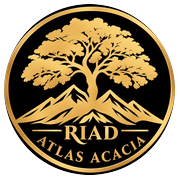
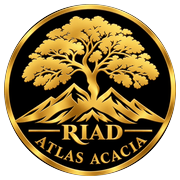
feat(branding): integrate ultra-refined high-resolution Riad Atlas Acacia golden medallion and rebuild all assets

diff --git a/client/index.html b/client/index.html
@@ -16,12 +16,12 @@
     <meta name="apple-mobile-web-app-title" content="Riad Acacia" />
     
     <!-- Favicon & Touch Icons (Riad Atlas Acacia Logo) -->
-    <link rel="icon" type="image/x-icon" href="/favicon.ico?v=5" />
-    <link rel="icon" type="image/png" sizes="32x32" href="/favicon-32x32.png?v=5" />
-    <link rel="icon" type="image/png" sizes="16x16" href="/favicon-16x16.png?v=5" />
-    <link rel="icon" type="image/png" sizes="64x64" href="/favicon.png?v=5" />
-    <link rel="apple-touch-icon" sizes="180x180" href="/apple-touch-icon.png?v=5" />
-    <link rel="manifest" href="/manifest.json?v=5" />
+    <link rel="icon" type="image/x-icon" href="/favicon.ico?v=6" />
+    <link rel="icon" type="image/png" sizes="32x32" href="/favicon-32x32.png?v=6" />
+    <link rel="icon" type="image/png" sizes="16x16" href="/favicon-16x16.png?v=6" />
+    <link rel="icon" type="image/png" sizes="64x64" href="/favicon.png?v=6" />
+    <link rel="apple-touch-icon" sizes="180x180" href="/apple-touch-icon.png?v=6" />
+    <link rel="manifest" href="/manifest.json?v=6" />
 
     <!-- Open Graph / WhatsApp Preview -->
     <meta property="og:type" content="website" />

diff --git a/client/src/main.tsx b/client/src/main.tsx
@@ -11,7 +11,7 @@ try {
     document.head.appendChild(favicon);
   }
   favicon.type = "image/png";
-  favicon.href = `/favicon-32x32.png?v=5`;
+  favicon.href = `/favicon-32x32.png?v=6`;
 } catch {
   // Ignore in non-browser env
 }

diff --git a/client/public/sw.js b/client/public/sw.js
@@ -1,5 +1,5 @@
 // Service Worker for Riad Atlas Acacia Guest Guide
-const CACHE_NAME = 'riad-acacia-v5';
+const CACHE_NAME = 'riad-acacia-v6';
 const STATIC_ASSETS = [
   '/',
   '/index.html',

diff --git a/scripts/generate-favicons.py b/scripts/generate-favicons.py
@@ -1,44 +1,37 @@
 import base64
 import os
-import shutil
 from PIL import Image, ImageDraw
 
 base_dir = r"d:\Workspace\MosaicOS\01_SYSTEM\AgenticOS project manager\projects\degitize-riad-acacia"
-user_img_path = r"C:/Users/mehdi/.gemini/antigravity/brain/c1475805-ff09-48db-b36f-e8cc56d5edea/.user_uploaded/media_1795791964787_e716268d.jpg"
+user_img_path = r"C:/Users/mehdi/.gemini/antigravity/brain/c1475805-ff09-48db-b36f-e8cc56d5edea/.user_uploaded/media_1795796031409_a72b1f8f.jpg"
 logo_dest = os.path.join(base_dir, "client", "public", "riad-atlas-acacia", "logo.png")
 pub_dir = os.path.join(base_dir, "client", "public")
 
-# 1. Load user upscaled image
+# 1. Load newly uploaded refined logo
 raw_img = Image.open(user_img_path).convert("RGBA")
 
-# Center & Radius of the golden circular medallion
-cx, cy = 502, 458
-radius = 434
+# Crop to the outer golden ring bounds
+cropped = raw_img.crop((33, 28, 982, 943))
 
-# Crop square around the circular medallion
-box = (cx - radius, cy - radius, cx + radius, cy + radius)
-cropped = raw_img.crop(box)
+# Resize to 512x512 with 4px margin (504x504 medallion on 512x512 canvas)
+medallion = cropped.resize((504, 504), Image.LANCZOS)
 
-# Super-sampled antialiased circular mask for silky smooth outer edge
-scale = 4
-mask_size = (cropped.width * scale, cropped.height * scale)
-mask = Image.new("L", mask_size, 0)
-draw = ImageDraw.Draw(mask)
-draw.ellipse((0, 0, mask_size[0], mask_size[1]), fill=255)
-mask = mask.resize(cropped.size, Image.LANCZOS)
-cropped.putalpha(mask)
+# 4x supersampled circular mask for clean antialiasing
+mask_hi = Image.new("L", (2016, 2016), 0)
+draw = ImageDraw.Draw(mask_hi)
+draw.ellipse((0, 0, 2016, 2016), fill=255)
+mask = mask_hi.resize((504, 504), Image.LANCZOS)
+medallion.putalpha(mask)
 
-# Save master 512x512 logo.png
 logo_512 = Image.new("RGBA", (512, 512), (0, 0, 0, 0))
-resized_504 = cropped.resize((504, 504), Image.LANCZOS)
-logo_512.paste(resized_504, (4, 4), resized_504)
+logo_512.paste(medallion, (4, 4), medallion)
 logo_512.save(logo_dest, "PNG")
-print("Saved master logo.png to:", logo_dest)
+print("Saved refined master logo.png to:", logo_dest)
 
 # Helper function to generate square icons
 def make_icon(size, padding_ratio=1.0):
     target_dim = max(1, int(size * padding_ratio))
-    resized = cropped.resize((target_dim, target_dim), Image.LANCZOS)
+    resized = medallion.resize((target_dim, target_dim), Image.LANCZOS)
     canvas = Image.new("RGBA", (size, size), (0, 0, 0, 0))
     paste_pos = ((size - target_dim) // 2, (size - target_dim) // 2)
     canvas.paste(resized, paste_pos, resized)
@@ -58,11 +51,11 @@ ico_48.save(
 make_icon(16).save(os.path.join(pub_dir, "favicon-16x16.png"), "PNG")
 make_icon(32).save(os.path.join(pub_dir, "favicon-32x32.png"), "PNG")
 make_icon(64).save(os.path.join(pub_dir, "favicon.png"), "PNG")
-make_icon(180, 0.95).save(os.path.join(pub_dir, "apple-touch-icon.png"), "PNG")
-make_icon(192, 0.95).save(os.path.join(pub_dir, "icon-192.png"), "PNG")
-make_icon(512, 0.95).save(os.path.join(pub_dir, "icon-512.png"), "PNG")
+make_icon(180, 0.96).save(os.path.join(pub_dir, "apple-touch-icon.png"), "PNG")
+make_icon(192, 0.96).save(os.path.join(pub_dir, "icon-192.png"), "PNG")
+make_icon(512, 0.96).save(os.path.join(pub_dir, "icon-512.png"), "PNG")
 
-# 4. Maskable PWA icon (with Android ~75% safe area margin)
+# 4. Maskable PWA icon (with Android safe area ~75% margin)
 make_icon(512, 0.75).save(os.path.join(pub_dir, "icon-maskable-512.png"), "PNG")
 
 # 5. Base64 embedded favicon.svg
@@ -76,4 +69,4 @@ svg_content = f'''<svg xmlns="http://www.w3.org/2000/svg" viewBox="0 0 32 32" wi
 with open(os.path.join(pub_dir, "favicon.svg"), "w", encoding="utf-8") as f:
     f.write(svg_content)
 
-print("Generated all updated icons from user's upscaled medallion!")
+print("All icons successfully generated from new refined logo!")
